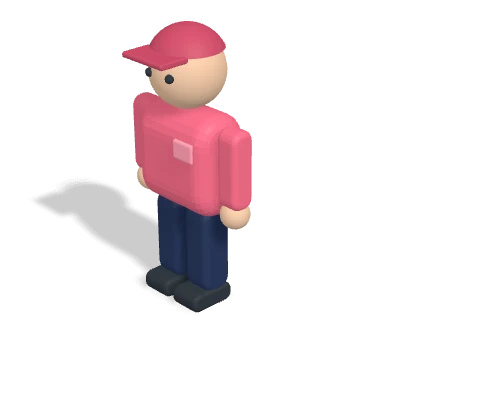
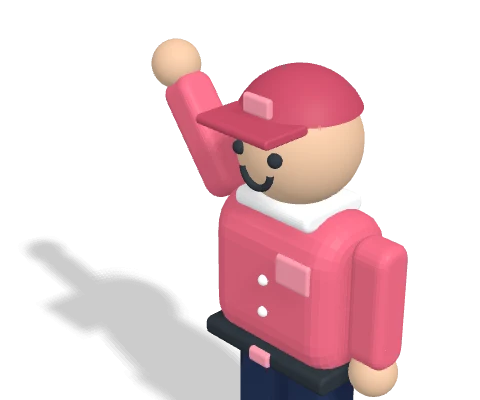
feat(admin): KPI cards show only the illustration on the right
Removes the icon chip. The driver is now a waving figure with collar,
belt, badge and smile, framed from the thighs up; the route's road runs
off the corner. Both are framed so the card edge crops into them like
the bus.

diff --git a/shared/buses/clay.js b/shared/buses/clay.js
@@ -141,37 +141,45 @@
   }
 
   // ── Props in the same clay style, for cards whose subject is not a bus. ──
-  // A standing bus driver: cap and top in the theme colour, facing the same way as the buses.
+  // A bus driver waving: cap, collar, belt and badge, top in the theme colour, facing the same way as the buses.
+  // Shot from the thighs up (see manifest), so a card corner can crop into the figure.
   function buildDriver(themeKey) {
     const theme = THEMES[themeKey], g = new THREE.Group(), add = (...m) => g.add(...m);
-    const top = mat(theme.main), deep = mat(theme.deep), light = mat(theme.light), skin = mat(theme.skin, { roughness: 0.65 }), navy = mat('#27365A'), dark = mat(TRIM.dark, { roughness: 0.7 });
+    const top = mat(theme.main), deep = mat(theme.deep), light = mat(theme.light), skin = mat(theme.skin, { roughness: 0.65 }), navy = mat('#27365A'), dark = mat(TRIM.dark, { roughness: 0.7 }), white = mat('#FFFFFF', { roughness: 0.5 });
     const ball = (r, material, at) => { const m = new THREE.Mesh(new THREE.SphereGeometry(r, 32, 24), material); m.position.set(at[0], at[1], at[2]); m.castShadow = true; return m; };
     for (const z of [-0.22, 0.22]) add(rbox(0.34, 0.95, 0.34, 0.15, navy, [0, 0.62, z]), rbox(0.52, 0.2, 0.36, 0.09, dark, [0.08, 0.1, z]));
     add(rbox(0.62, 1.05, 0.98, 0.3, top, [0, 1.55, 0]));
+    add(rbox(0.66, 0.13, 1.02, 0.05, dark, [0, 1.08, 0]), rbox(0.06, 0.1, 0.16, 0.03, light, [0.33, 1.08, 0])); // belt and buckle
+    add(rbox(0.5, 0.12, 0.6, 0.06, white, [0.02, 2.07, 0])); // collar
     add(rbox(0.06, 0.2, 0.26, 0.04, light, [0.3, 1.75, -0.24])); // badge
-    for (const z of [-0.63, 0.63]) add(rbox(0.26, 0.82, 0.26, 0.12, top, [0, 1.6, z]), ball(0.15, skin, [0, 1.12, z]));
+    for (const y of [1.62, 1.4]) add(ball(0.035, white, [0.31, y, 0])); // two buttons
+    // One arm hangs, the other is raised in a wave (pivoted at the shoulder).
+    add(rbox(0.26, 0.82, 0.26, 0.12, top, [0, 1.6, -0.63]), ball(0.15, skin, [0, 1.12, -0.63]));
+    const wave = new THREE.Group(); wave.position.set(0, 1.95, 0.6); wave.rotation.x = -2.5;
+    wave.add(rbox(0.26, 0.82, 0.26, 0.12, top, [0, -0.36, 0]), ball(0.16, skin, [0, -0.86, 0]));
+    add(wave);
     add(ball(0.38, skin, [0.02, 2.45, 0]));
     for (const z of [-0.14, 0.14]) add(ball(0.045, dark, [0.37, 2.47, z])); // eyes
+    const smile = new THREE.Mesh(new THREE.TorusGeometry(0.11, 0.022, 8, 20, Math.PI), dark); smile.rotation.set(0, Math.PI / 2, Math.PI); smile.position.set(0.375, 2.37, 0); add(smile);
     const cap = new THREE.Mesh(new THREE.SphereGeometry(0.405, 32, 16, 0, Math.PI * 2, 0, Math.PI * 0.36), deep); cap.position.set(0.02, 2.5, 0); cap.castShadow = true;
-    add(cap, rbox(0.34, 0.06, 0.56, 0.03, deep, [0.42, 2.66, 0]));
-    g.scale.setScalar(1.9); g.position.set(0.5, 0, 0.5); // large, and nudged toward the camera's left so a corner crop keeps the face
+    add(cap, rbox(0.34, 0.06, 0.56, 0.03, deep, [0.42, 2.66, 0]), rbox(0.05, 0.12, 0.2, 0.03, light, [0.37, 2.76, 0])); // cap, brim, cap badge
+    g.scale.setScalar(1.9); g.position.set(0.5, 0, 0.5);
     return g;
   }
   // A route: an S-shaped road with three stops and a map pin at each end.
   function buildRoute(themeKey) {
     const theme = THEMES[themeKey], g = new THREE.Group(), add = (...m) => g.add(...m);
     const road = mat('#56616D', { roughness: 0.85 }), white = mat('#FFFFFF', { roughness: 0.6 });
-    add(rbox(4.6, 0.14, 1.5, 0.07, road, [-1.55, 0.07, -1.5]), rbox(1.5, 0.14, 4.5, 0.07, road, [0, 0.07, 0]), rbox(4.6, 0.14, 1.5, 0.07, road, [1.55, 0.07, 1.5]));
-    for (const [x, z] of [[-2.6, -1.5], [-1.5, -1.5], [0, -0.6], [0, 0.6], [1.5, 1.5], [2.6, 1.5]]) { const d = rbox(z === -1.5 || z === 1.5 ? 0.5 : 0.14, 0.03, z === -1.5 || z === 1.5 ? 0.14 : 0.5, 0.01, white, [x, 0.15, z]); d.castShadow = false; add(d); }
-    for (const [x, z] of [[-0.4, -1.5], [0, 0], [0.4, 1.5]]) { const stop = new THREE.Mesh(new THREE.CylinderGeometry(0.3, 0.3, 0.16, 28), white); stop.position.set(x, 0.2, z); stop.castShadow = true; add(stop); }
+    add(rbox(8.6, 0.14, 1.5, 0.07, road, [-3.55, 0.07, -1.5]), rbox(1.5, 0.14, 4.5, 0.07, road, [0, 0.07, 0]), rbox(4.6, 0.14, 1.5, 0.07, road, [1.55, 0.07, 1.5]));
+    for (const [x, z] of [[-5.9, -1.5], [-4.8, -1.5], [-3.7, -1.5], [-2.6, -1.5], [-1.5, -1.5], [0, -0.6], [0, 0.6], [1.5, 1.5], [2.6, 1.5]]) { const d = rbox(z === -1.5 || z === 1.5 ? 0.5 : 0.14, 0.03, z === -1.5 || z === 1.5 ? 0.14 : 0.5, 0.01, white, [x, 0.15, z]); d.castShadow = false; add(d); }
+    for (const [x, z] of [[-2.05, -1.5], [0, 0], [0.4, 1.5]]) { const stop = new THREE.Mesh(new THREE.CylinderGeometry(0.3, 0.3, 0.16, 28), white); stop.position.set(x, 0.2, z); stop.castShadow = true; add(stop); }
     const pin = (x, z, material) => {
       const head = new THREE.Mesh(new THREE.SphereGeometry(0.62, 32, 24), material); head.position.set(x, 2.25, z);
       const tip = new THREE.Mesh(new THREE.ConeGeometry(0.5, 1.5, 32), material); tip.rotation.x = Math.PI; tip.position.set(x, 1.1, z);
       const dot = new THREE.Mesh(new THREE.SphereGeometry(0.26, 24, 16), white); dot.position.set(x + 0.42, 2.3, z - 0.3);
       for (const m of [head, tip, dot]) { m.castShadow = true; add(m); }
     };
-    pin(-3.3, -1.5, mat(theme.deep)); pin(3.3, 1.5, mat(theme.main));
-    g.scale.setScalar(0.8); g.position.set(0.5, 0, 0.5);
+    pin(0, -1.5, mat(theme.deep)); pin(3.3, 1.5, mat(theme.main));
     return g;
   }
   const PROPS = { driver: buildDriver, route: buildRoute };
@@ -232,7 +240,9 @@
     for (const theme of Object.keys(THEMES).filter((t) => t !== 'off')) for (const state of ['running', 'idle', 'parked']) hero.push({ name: `bus-${theme}-${state}`, type: 'bus', theme, state });
     hero.push({ name: 'bus-off', type: 'bus', theme: 'off', state: 'parked' });
     for (const type of Object.keys(TYPES).filter((t) => t !== 'bus')) for (const theme of TYPES[type].themes || [TYPES[type].theme]) for (const state of ['running', 'idle']) hero.push({ name: `${type}-${theme}-${state}`, type, theme, state });
-    hero.push({ name: 'driver-coral-idle', prop: 'driver', theme: 'coral' }, { name: 'route-mint-idle', prop: 'route', theme: 'mint' });
+    // Props are framed closer and off-centre (toward the right) so a card corner crops into them.
+    hero.push({ name: 'driver-coral-idle', prop: 'driver', theme: 'coral', shot: { distance: 13, target: [1.0, 3.9, 0.98] } },
+      { name: 'route-mint-idle', prop: 'route', theme: 'mint', shot: { distance: 21, target: [0.2, 1.1, 0.2] } });
     return { hero, scenes: Object.keys(SCENES), markers: [0, 1, 2, 3, 4, 5, 6, 7] };
   }
 

diff --git a/apps/admin-dashboard/src/App.js b/apps/admin-dashboard/src/App.js
@@ -621,7 +621,6 @@ function App() {
                   label="Active Routes"
                   value={summary.activeRoutes}
                   subtitle="Active network routes"
-                  icon="route"
                   tint="train"
                   vehicle="route"
                 />
@@ -629,7 +628,6 @@ function App() {
                   label="Registered Buses"
                   value={summary.registeredBuses}
                   subtitle={`${summary.fleetDistribution?.active || 0} Active / ${summary.fleetDistribution?.maintenance || 0} Maintenance`}
-                  icon="bus"
                   tint="bus"
                   vehicle="bus"
                   livery="teal"
@@ -638,7 +636,6 @@ function App() {
                   label="Active Drivers"
                   value={summary.activeDrivers}
                   subtitle="Authorized drivers in system"
-                  icon="drivers"
                   tint="taxi"
                   vehicle="driver"
                 />
@@ -1188,16 +1185,11 @@ function TableShell({ children }) {
   return <div className="panel table-shell">{children}</div>;
 }
 
-function KpiCard({ label, value, subtitle, icon, tint, vehicle, livery }) {
+function KpiCard({ label, value, subtitle, tint, vehicle, livery }) {
   return (
     <div className={`kpi-card tint-${tint}`}>
-      <Vehicle name={vehicle} livery={livery} width={196} className="kpi-art" label={`${vehicle} illustration`} />
-      <div className="kpi-topline">
-        <p>{label}</p>
-        <span className="kpi-icon">
-          <Icon type={icon} />
-        </span>
-      </div>
+      <Vehicle name={vehicle} livery={livery} width={212} className="kpi-art" label={`${vehicle} illustration`} />
+      <p className="kpi-label">{label}</p>
       <strong>{value}</strong>
       <span>{subtitle}</span>
     </div>

diff --git a/apps/admin-dashboard/src/admin-theme.css b/apps/admin-dashboard/src/admin-theme.css
@@ -138,13 +138,11 @@ code { font-family: 'JetBrains Mono', ui-monospace, monospace; font-size: 12px; 
 }
 .kpi-card.tint-train { --tint-from: var(--tint-train-from); --tint-to: var(--tint-train-to); }
 .kpi-card.tint-taxi { --tint-from: var(--tint-taxi-from); --tint-to: var(--tint-taxi-to); }
-.kpi-topline { display: flex; align-items: center; justify-content: space-between; }
-.kpi-topline p { font-size: var(--fs-small); font-weight: 700; color: var(--inkSoft, var(--ink-soft)); }
-.kpi-icon { width: 36px; height: 36px; border-radius: var(--radius-sm); background: rgba(255, 255, 255, 0.75); display: grid; place-items: center; padding: 8px; color: var(--primary-deep); }
+.kpi-label { font-size: var(--fs-small); font-weight: 700; color: var(--inkSoft, var(--ink-soft)); }
 .kpi-card strong { font-size: var(--fs-display); line-height: var(--lh-display); font-weight: 800; letter-spacing: -0.6px; }
 .kpi-card > span:not(.kpi-art) { font-size: var(--fs-caption); line-height: var(--lh-caption); font-weight: 600; color: var(--ink-soft); max-width: 60%; }
 .kpi-card > :not(.kpi-art) { position: relative; z-index: 1; }
-.kpi-art { position: absolute; right: -34px; bottom: -26px; pointer-events: none; transform-origin: 100% 100%; }
+.kpi-art { position: absolute; right: -36px; bottom: -30px; pointer-events: none; transform-origin: 100% 100%; }
 @media (min-width: 1101px) and (max-width: 1320px) { .kpi-art { transform: scale(0.8); } }
 
 .dashboard-grid { display: grid; grid-template-columns: minmax(0, 1.4fr) minmax(0, 1fr); gap: var(--space-4); }

diff --git a/shared/buses/export.html b/shared/buses/export.html
@@ -27,7 +27,7 @@
   const shoot = studio(), m = manifest();
   const fig = (name, src, label) => `<figure><img data-name="${name}" src="${src}" alt="${label}">${label}</figure>`;
   // Same camera for every bus so sizes are comparable and states never shift the art.
-  document.getElementById('hero').innerHTML = m.hero.map((s) => fig(s.name, shoot(build(s), { w: 480, h: 400, distance: 22, target: [-0.3, 1.9, 0] }), s.name)).join('');
+  document.getElementById('hero').innerHTML = m.hero.map((s) => fig(s.name, shoot(build(s), { w: 480, h: 400, distance: 22, target: [-0.3, 1.9, 0], ...s.shot }), s.name)).join('');
   document.getElementById('scenes').innerHTML = m.scenes.map((k) => fig(`scene-${k}`, shoot(buildScene(SCENES[k]), { w: 960, h: 540, distance: 46, target: [1.5, 1.2, 0] }), k)).join('');
   // Marker k faces compass heading k × 45° (0 = north = up the screen): model rotation = 135° - heading with the camera at 45°.
   const marker = buildBus({ type: 'bus', theme: 'teal', state: 'parked', detail: false });
